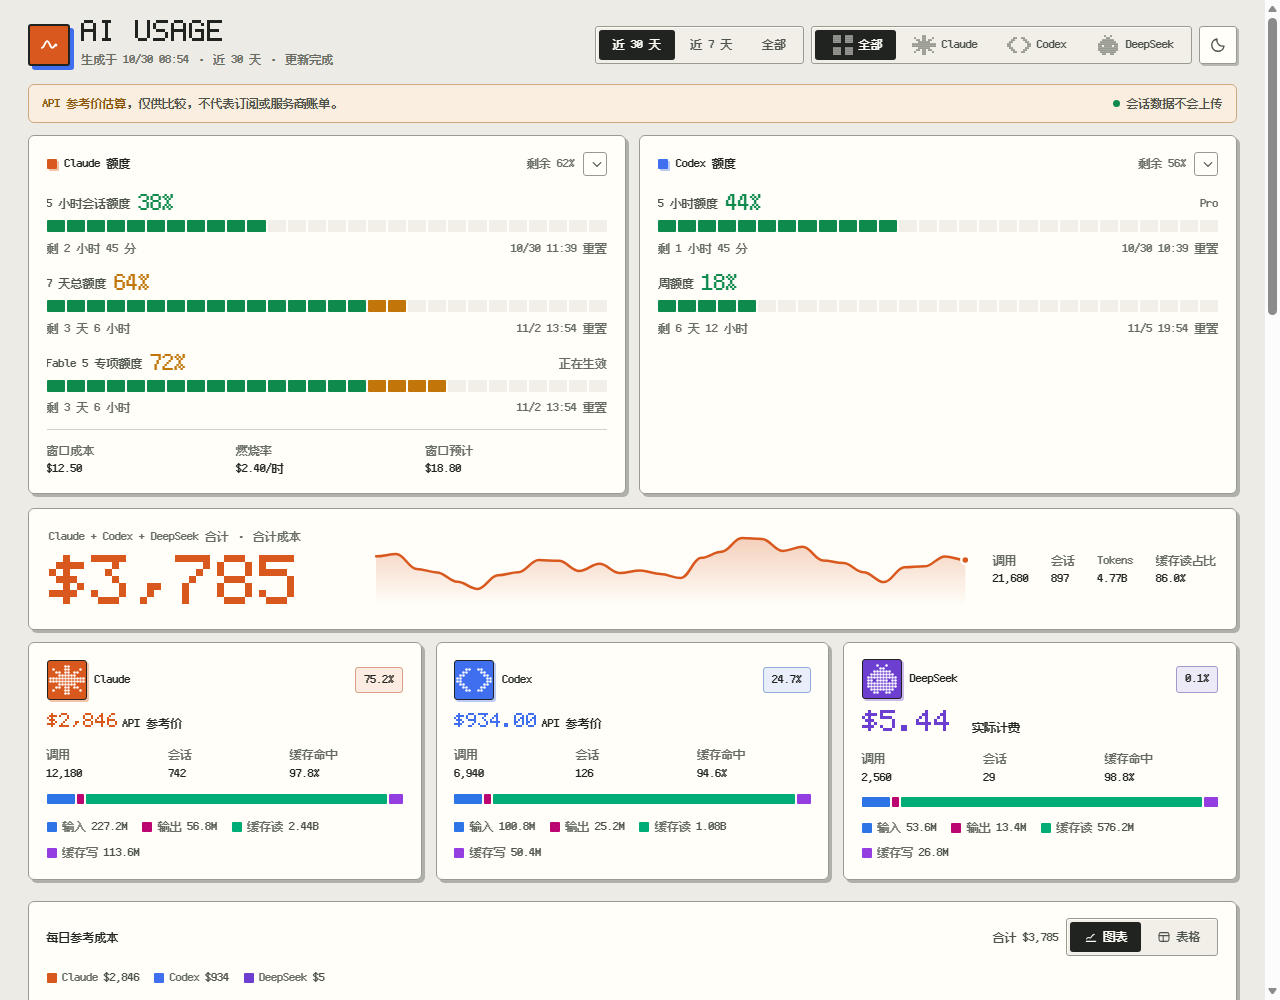
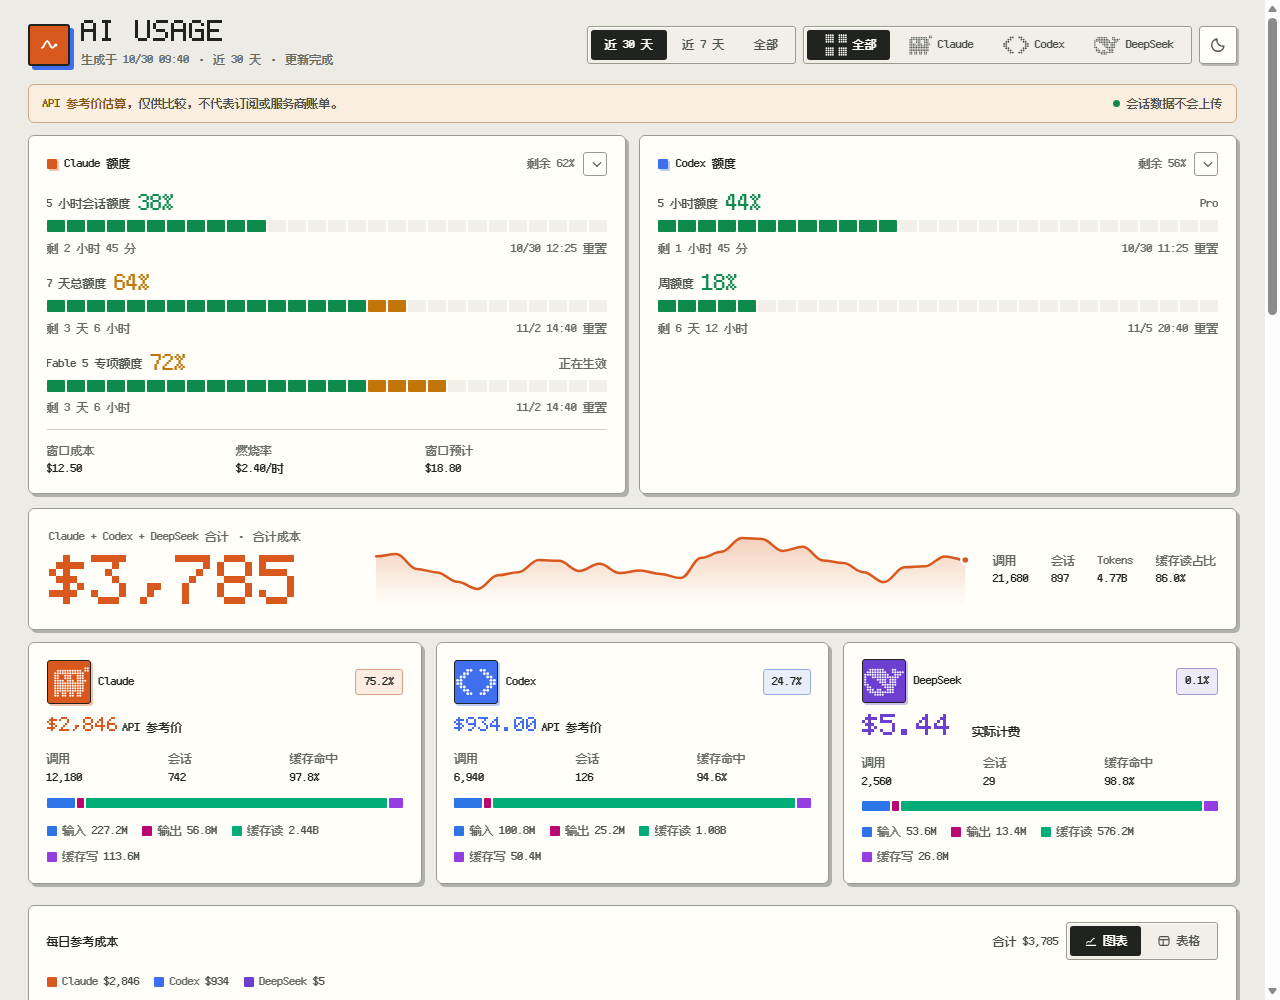
feat: use the real brand marks, redrawn as perler-bead mosaics
DeepSeek now uses the official LobeHub whale path, rasterised to a 16-cell grid by fill coverage and de-speckled, instead of a hand-drawn whale face. Claude swaps the generic burst for the blocky mascot at the same grid. Both render as one circle per bead, so the chip reads as a fuse-bead chart; the chip grows to 44px and the glyph to 40px to keep the bead pitch above 2.7px, and the filter icons follow at 26px. Codex and the all-grid stay at 12 cells.

diff --git a/src/template.html b/src/template.html
@@ -278,8 +278,8 @@
   .prov { padding: 1rem 1.1rem; --p: var(--claude); display: grid; gap: .7rem; }
   .prov-top { display: flex; align-items: center; gap: .5rem; }
   .prov-name { display: inline-flex; align-items: center; gap: .5rem; font-weight: 700; }
-  .prov-name .chip { inline-size: 40px; block-size: 40px; border: 1px solid var(--ink); border-radius: var(--r-item); display: grid; place-items: center; color: #fff; background: var(--p); box-shadow: 2px 2px 0 color-mix(in oklab, var(--p) 35%, transparent); flex: none; }
-  .prov-name .chip svg { inline-size: 36px; block-size: 36px; }
+  .prov-name .chip { inline-size: 44px; block-size: 44px; border: 1px solid var(--ink); border-radius: var(--r-item); display: grid; place-items: center; color: #fff; background: var(--p); box-shadow: 2px 2px 0 color-mix(in oklab, var(--p) 35%, transparent); flex: none; }
+  .prov-name .chip svg { inline-size: 40px; block-size: 40px; }
   .prov-share { margin-inline-start: auto; padding: .15rem .5rem; border: 1px solid color-mix(in oklab, var(--p) 42%, var(--line)); border-radius: var(--r-item); background: color-mix(in oklab, var(--p) 11%, var(--card)); color: var(--ink); font-size: .75rem; font-weight: 600; }
   .prov-cost-row { display: flex; align-items: end; gap: .35rem; flex-wrap: wrap; min-inline-size: 0; }
   .prov-cost { display: inline-block; max-inline-size: 100%; color: var(--p); }
@@ -627,67 +627,124 @@
     <circle cx="10.5" cy="10.5" r="0.42" fill="currentColor"/>
     <circle cx="11.5" cy="10.5" r="0.42" fill="currentColor"/>
   </symbol>
-  <symbol id="i-claude" viewBox="0 0 12 12" fill="currentColor">
-    <circle cx="5.5" cy="1.5" r="0.42" fill="currentColor"/>
-    <circle cx="6.5" cy="1.5" r="0.42" fill="currentColor"/>
-    <circle cx="1.5" cy="2.5" r="0.42" fill="currentColor"/>
-    <circle cx="5.5" cy="2.5" r="0.42" fill="currentColor"/>
-    <circle cx="6.5" cy="2.5" r="0.42" fill="currentColor"/>
-    <circle cx="10.5" cy="2.5" r="0.42" fill="currentColor"/>
-    <circle cx="2.5" cy="3.5" r="0.42" fill="currentColor"/>
+  <symbol id="i-claude" viewBox="0 0 16 16" fill="currentColor">
+    <circle cx="14.5" cy="2.5" r="0.42" fill="currentColor"/>
+    <circle cx="15.5" cy="2.5" r="0.42" fill="currentColor"/>
     <circle cx="3.5" cy="3.5" r="0.42" fill="currentColor"/>
+    <circle cx="4.5" cy="3.5" r="0.42" fill="currentColor"/>
     <circle cx="5.5" cy="3.5" r="0.42" fill="currentColor"/>
     <circle cx="6.5" cy="3.5" r="0.42" fill="currentColor"/>
+    <circle cx="7.5" cy="3.5" r="0.42" fill="currentColor"/>
     <circle cx="8.5" cy="3.5" r="0.42" fill="currentColor"/>
     <circle cx="9.5" cy="3.5" r="0.42" fill="currentColor"/>
+    <circle cx="10.5" cy="3.5" r="0.42" fill="currentColor"/>
+    <circle cx="11.5" cy="3.5" r="0.42" fill="currentColor"/>
+    <circle cx="12.5" cy="3.5" r="0.42" fill="currentColor"/>
+    <circle cx="14.5" cy="3.5" r="0.42" fill="currentColor"/>
+    <circle cx="15.5" cy="3.5" r="0.42" fill="currentColor"/>
+    <circle cx="2.5" cy="4.5" r="0.42" fill="currentColor"/>
     <circle cx="3.5" cy="4.5" r="0.42" fill="currentColor"/>
     <circle cx="4.5" cy="4.5" r="0.42" fill="currentColor"/>
     <circle cx="5.5" cy="4.5" r="0.42" fill="currentColor"/>
     <circle cx="6.5" cy="4.5" r="0.42" fill="currentColor"/>
     <circle cx="7.5" cy="4.5" r="0.42" fill="currentColor"/>
     <circle cx="8.5" cy="4.5" r="0.42" fill="currentColor"/>
-    <circle cx="0.5" cy="5.5" r="0.42" fill="currentColor"/>
-    <circle cx="1.5" cy="5.5" r="0.42" fill="currentColor"/>
+    <circle cx="9.5" cy="4.5" r="0.42" fill="currentColor"/>
+    <circle cx="10.5" cy="4.5" r="0.42" fill="currentColor"/>
+    <circle cx="11.5" cy="4.5" r="0.42" fill="currentColor"/>
+    <circle cx="12.5" cy="4.5" r="0.42" fill="currentColor"/>
+    <circle cx="13.5" cy="4.5" r="0.42" fill="currentColor"/>
     <circle cx="2.5" cy="5.5" r="0.42" fill="currentColor"/>
     <circle cx="3.5" cy="5.5" r="0.42" fill="currentColor"/>
-    <circle cx="4.5" cy="5.5" r="0.42" fill="currentColor"/>
-    <circle cx="5.5" cy="5.5" r="0.42" fill="currentColor"/>
     <circle cx="6.5" cy="5.5" r="0.42" fill="currentColor"/>
     <circle cx="7.5" cy="5.5" r="0.42" fill="currentColor"/>
     <circle cx="8.5" cy="5.5" r="0.42" fill="currentColor"/>
-    <circle cx="9.5" cy="5.5" r="0.42" fill="currentColor"/>
-    <circle cx="10.5" cy="5.5" r="0.42" fill="currentColor"/>
     <circle cx="11.5" cy="5.5" r="0.42" fill="currentColor"/>
-    <circle cx="0.5" cy="6.5" r="0.42" fill="currentColor"/>
-    <circle cx="1.5" cy="6.5" r="0.42" fill="currentColor"/>
+    <circle cx="12.5" cy="5.5" r="0.42" fill="currentColor"/>
+    <circle cx="13.5" cy="5.5" r="0.42" fill="currentColor"/>
     <circle cx="2.5" cy="6.5" r="0.42" fill="currentColor"/>
     <circle cx="3.5" cy="6.5" r="0.42" fill="currentColor"/>
-    <circle cx="4.5" cy="6.5" r="0.42" fill="currentColor"/>
-    <circle cx="5.5" cy="6.5" r="0.42" fill="currentColor"/>
     <circle cx="6.5" cy="6.5" r="0.42" fill="currentColor"/>
     <circle cx="7.5" cy="6.5" r="0.42" fill="currentColor"/>
     <circle cx="8.5" cy="6.5" r="0.42" fill="currentColor"/>
-    <circle cx="9.5" cy="6.5" r="0.42" fill="currentColor"/>
-    <circle cx="10.5" cy="6.5" r="0.42" fill="currentColor"/>
     <circle cx="11.5" cy="6.5" r="0.42" fill="currentColor"/>
+    <circle cx="12.5" cy="6.5" r="0.42" fill="currentColor"/>
+    <circle cx="13.5" cy="6.5" r="0.42" fill="currentColor"/>
+    <circle cx="2.5" cy="7.5" r="0.42" fill="currentColor"/>
     <circle cx="3.5" cy="7.5" r="0.42" fill="currentColor"/>
     <circle cx="4.5" cy="7.5" r="0.42" fill="currentColor"/>
     <circle cx="5.5" cy="7.5" r="0.42" fill="currentColor"/>
-    <circle cx="6.5" cy="7.5" r="0.42" fill="currentColor"/>
     <circle cx="7.5" cy="7.5" r="0.42" fill="currentColor"/>
     <circle cx="8.5" cy="7.5" r="0.42" fill="currentColor"/>
+    <circle cx="9.5" cy="7.5" r="0.42" fill="currentColor"/>
+    <circle cx="11.5" cy="7.5" r="0.42" fill="currentColor"/>
+    <circle cx="12.5" cy="7.5" r="0.42" fill="currentColor"/>
+    <circle cx="13.5" cy="7.5" r="0.42" fill="currentColor"/>
+    <circle cx="14.5" cy="7.5" r="0.42" fill="currentColor"/>
     <circle cx="2.5" cy="8.5" r="0.42" fill="currentColor"/>
     <circle cx="3.5" cy="8.5" r="0.42" fill="currentColor"/>
+    <circle cx="4.5" cy="8.5" r="0.42" fill="currentColor"/>
     <circle cx="5.5" cy="8.5" r="0.42" fill="currentColor"/>
     <circle cx="6.5" cy="8.5" r="0.42" fill="currentColor"/>
+    <circle cx="7.5" cy="8.5" r="0.42" fill="currentColor"/>
     <circle cx="8.5" cy="8.5" r="0.42" fill="currentColor"/>
     <circle cx="9.5" cy="8.5" r="0.42" fill="currentColor"/>
-    <circle cx="1.5" cy="9.5" r="0.42" fill="currentColor"/>
+    <circle cx="10.5" cy="8.5" r="0.42" fill="currentColor"/>
+    <circle cx="11.5" cy="8.5" r="0.42" fill="currentColor"/>
+    <circle cx="12.5" cy="8.5" r="0.42" fill="currentColor"/>
+    <circle cx="13.5" cy="8.5" r="0.42" fill="currentColor"/>
+    <circle cx="2.5" cy="9.5" r="0.42" fill="currentColor"/>
+    <circle cx="3.5" cy="9.5" r="0.42" fill="currentColor"/>
+    <circle cx="4.5" cy="9.5" r="0.42" fill="currentColor"/>
     <circle cx="5.5" cy="9.5" r="0.42" fill="currentColor"/>
     <circle cx="6.5" cy="9.5" r="0.42" fill="currentColor"/>
+    <circle cx="7.5" cy="9.5" r="0.42" fill="currentColor"/>
+    <circle cx="8.5" cy="9.5" r="0.42" fill="currentColor"/>
+    <circle cx="9.5" cy="9.5" r="0.42" fill="currentColor"/>
     <circle cx="10.5" cy="9.5" r="0.42" fill="currentColor"/>
+    <circle cx="11.5" cy="9.5" r="0.42" fill="currentColor"/>
+    <circle cx="12.5" cy="9.5" r="0.42" fill="currentColor"/>
+    <circle cx="13.5" cy="9.5" r="0.42" fill="currentColor"/>
+    <circle cx="2.5" cy="10.5" r="0.42" fill="currentColor"/>
+    <circle cx="3.5" cy="10.5" r="0.42" fill="currentColor"/>
+    <circle cx="4.5" cy="10.5" r="0.42" fill="currentColor"/>
     <circle cx="5.5" cy="10.5" r="0.42" fill="currentColor"/>
     <circle cx="6.5" cy="10.5" r="0.42" fill="currentColor"/>
+    <circle cx="7.5" cy="10.5" r="0.42" fill="currentColor"/>
+    <circle cx="8.5" cy="10.5" r="0.42" fill="currentColor"/>
+    <circle cx="9.5" cy="10.5" r="0.42" fill="currentColor"/>
+    <circle cx="10.5" cy="10.5" r="0.42" fill="currentColor"/>
+    <circle cx="11.5" cy="10.5" r="0.42" fill="currentColor"/>
+    <circle cx="12.5" cy="10.5" r="0.42" fill="currentColor"/>
+    <circle cx="13.5" cy="10.5" r="0.42" fill="currentColor"/>
+    <circle cx="2.5" cy="11.5" r="0.42" fill="currentColor"/>
+    <circle cx="3.5" cy="11.5" r="0.42" fill="currentColor"/>
+    <circle cx="4.5" cy="11.5" r="0.42" fill="currentColor"/>
+    <circle cx="5.5" cy="11.5" r="0.42" fill="currentColor"/>
+    <circle cx="6.5" cy="11.5" r="0.42" fill="currentColor"/>
+    <circle cx="7.5" cy="11.5" r="0.42" fill="currentColor"/>
+    <circle cx="8.5" cy="11.5" r="0.42" fill="currentColor"/>
+    <circle cx="9.5" cy="11.5" r="0.42" fill="currentColor"/>
+    <circle cx="10.5" cy="11.5" r="0.42" fill="currentColor"/>
+    <circle cx="11.5" cy="11.5" r="0.42" fill="currentColor"/>
+    <circle cx="12.5" cy="11.5" r="0.42" fill="currentColor"/>
+    <circle cx="13.5" cy="11.5" r="0.42" fill="currentColor"/>
+    <circle cx="2.5" cy="12.5" r="0.42" fill="currentColor"/>
+    <circle cx="3.5" cy="12.5" r="0.42" fill="currentColor"/>
+    <circle cx="5.5" cy="12.5" r="0.42" fill="currentColor"/>
+    <circle cx="6.5" cy="12.5" r="0.42" fill="currentColor"/>
+    <circle cx="8.5" cy="12.5" r="0.42" fill="currentColor"/>
+    <circle cx="9.5" cy="12.5" r="0.42" fill="currentColor"/>
+    <circle cx="11.5" cy="12.5" r="0.42" fill="currentColor"/>
+    <circle cx="12.5" cy="12.5" r="0.42" fill="currentColor"/>
+    <circle cx="2.5" cy="13.5" r="0.42" fill="currentColor"/>
+    <circle cx="3.5" cy="13.5" r="0.42" fill="currentColor"/>
+    <circle cx="5.5" cy="13.5" r="0.42" fill="currentColor"/>
+    <circle cx="6.5" cy="13.5" r="0.42" fill="currentColor"/>
+    <circle cx="8.5" cy="13.5" r="0.42" fill="currentColor"/>
+    <circle cx="9.5" cy="13.5" r="0.42" fill="currentColor"/>
+    <circle cx="11.5" cy="13.5" r="0.42" fill="currentColor"/>
+    <circle cx="12.5" cy="13.5" r="0.42" fill="currentColor"/>
   </symbol>
   <symbol id="i-codex" viewBox="0 0 12 12" fill="currentColor">
     <circle cx="3.5" cy="2.5" r="0.42" fill="currentColor"/>
@@ -723,17 +780,16 @@
     <circle cx="7.5" cy="9.5" r="0.42" fill="currentColor"/>
     <circle cx="8.5" cy="9.5" r="0.42" fill="currentColor"/>
   </symbol>
-  <symbol id="i-deepseek" viewBox="0 0 12 12" fill="currentColor">
-    <circle cx="4.5" cy="1.5" r="0.42" fill="currentColor"/>
-    <circle cx="7.5" cy="1.5" r="0.42" fill="currentColor"/>
-    <circle cx="5.5" cy="2.5" r="0.42" fill="currentColor"/>
-    <circle cx="6.5" cy="2.5" r="0.42" fill="currentColor"/>
+  <symbol id="i-deepseek" viewBox="0 0 16 16" fill="currentColor">
+    <circle cx="2.5" cy="3.5" r="0.42" fill="currentColor"/>
     <circle cx="3.5" cy="3.5" r="0.42" fill="currentColor"/>
     <circle cx="4.5" cy="3.5" r="0.42" fill="currentColor"/>
     <circle cx="5.5" cy="3.5" r="0.42" fill="currentColor"/>
     <circle cx="6.5" cy="3.5" r="0.42" fill="currentColor"/>
     <circle cx="7.5" cy="3.5" r="0.42" fill="currentColor"/>
-    <circle cx="8.5" cy="3.5" r="0.42" fill="currentColor"/>
+    <circle cx="11.5" cy="3.5" r="0.42" fill="currentColor"/>
+    <circle cx="12.5" cy="3.5" r="0.42" fill="currentColor"/>
+    <circle cx="1.5" cy="4.5" r="0.42" fill="currentColor"/>
     <circle cx="2.5" cy="4.5" r="0.42" fill="currentColor"/>
     <circle cx="3.5" cy="4.5" r="0.42" fill="currentColor"/>
     <circle cx="4.5" cy="4.5" r="0.42" fill="currentColor"/>
@@ -741,7 +797,12 @@
     <circle cx="6.5" cy="4.5" r="0.42" fill="currentColor"/>
     <circle cx="7.5" cy="4.5" r="0.42" fill="currentColor"/>
     <circle cx="8.5" cy="4.5" r="0.42" fill="currentColor"/>
-    <circle cx="9.5" cy="4.5" r="0.42" fill="currentColor"/>
+    <circle cx="11.5" cy="4.5" r="0.42" fill="currentColor"/>
+    <circle cx="12.5" cy="4.5" r="0.42" fill="currentColor"/>
+    <circle cx="13.5" cy="4.5" r="0.42" fill="currentColor"/>
+    <circle cx="14.5" cy="4.5" r="0.42" fill="currentColor"/>
+    <circle cx="15.5" cy="4.5" r="0.42" fill="currentColor"/>
+    <circle cx="0.5" cy="5.5" r="0.42" fill="currentColor"/>
     <circle cx="1.5" cy="5.5" r="0.42" fill="currentColor"/>
     <circle cx="2.5" cy="5.5" r="0.42" fill="currentColor"/>
     <circle cx="3.5" cy="5.5" r="0.42" fill="currentColor"/>
@@ -751,47 +812,72 @@
     <circle cx="7.5" cy="5.5" r="0.42" fill="currentColor"/>
     <circle cx="8.5" cy="5.5" r="0.42" fill="currentColor"/>
     <circle cx="9.5" cy="5.5" r="0.42" fill="currentColor"/>
-    <circle cx="10.5" cy="5.5" r="0.42" fill="currentColor"/>
-    <circle cx="1.5" cy="6.5" r="0.42" fill="currentColor"/>
-    <circle cx="2.5" cy="6.5" r="0.42" fill="currentColor"/>
+    <circle cx="12.5" cy="5.5" r="0.42" fill="currentColor"/>
+    <circle cx="13.5" cy="5.5" r="0.42" fill="currentColor"/>
+    <circle cx="14.5" cy="5.5" r="0.42" fill="currentColor"/>
+    <circle cx="0.5" cy="6.5" r="0.42" fill="currentColor"/>
+    <circle cx="3.5" cy="6.5" r="0.42" fill="currentColor"/>
     <circle cx="4.5" cy="6.5" r="0.42" fill="currentColor"/>
     <circle cx="5.5" cy="6.5" r="0.42" fill="currentColor"/>
     <circle cx="6.5" cy="6.5" r="0.42" fill="currentColor"/>
     <circle cx="7.5" cy="6.5" r="0.42" fill="currentColor"/>
+    <circle cx="8.5" cy="6.5" r="0.42" fill="currentColor"/>
     <circle cx="9.5" cy="6.5" r="0.42" fill="currentColor"/>
     <circle cx="10.5" cy="6.5" r="0.42" fill="currentColor"/>
-    <circle cx="1.5" cy="7.5" r="0.42" fill="currentColor"/>
-    <circle cx="2.5" cy="7.5" r="0.42" fill="currentColor"/>
-    <circle cx="3.5" cy="7.5" r="0.42" fill="currentColor"/>
-    <circle cx="4.5" cy="7.5" r="0.42" fill="currentColor"/>
+    <circle cx="11.5" cy="6.5" r="0.42" fill="currentColor"/>
+    <circle cx="12.5" cy="6.5" r="0.42" fill="currentColor"/>
+    <circle cx="13.5" cy="6.5" r="0.42" fill="currentColor"/>
+    <circle cx="0.5" cy="7.5" r="0.42" fill="currentColor"/>
     <circle cx="5.5" cy="7.5" r="0.42" fill="currentColor"/>
     <circle cx="6.5" cy="7.5" r="0.42" fill="currentColor"/>
     <circle cx="7.5" cy="7.5" r="0.42" fill="currentColor"/>
     <circle cx="8.5" cy="7.5" r="0.42" fill="currentColor"/>
-    <circle cx="9.5" cy="7.5" r="0.42" fill="currentColor"/>
     <circle cx="10.5" cy="7.5" r="0.42" fill="currentColor"/>
-    <circle cx="1.5" cy="8.5" r="0.42" fill="currentColor"/>
-    <circle cx="2.5" cy="8.5" r="0.42" fill="currentColor"/>
-    <circle cx="3.5" cy="8.5" r="0.42" fill="currentColor"/>
-    <circle cx="4.5" cy="8.5" r="0.42" fill="currentColor"/>
-    <circle cx="5.5" cy="8.5" r="0.42" fill="currentColor"/>
+    <circle cx="11.5" cy="7.5" r="0.42" fill="currentColor"/>
+    <circle cx="12.5" cy="7.5" r="0.42" fill="currentColor"/>
+    <circle cx="0.5" cy="8.5" r="0.42" fill="currentColor"/>
     <circle cx="6.5" cy="8.5" r="0.42" fill="currentColor"/>
     <circle cx="7.5" cy="8.5" r="0.42" fill="currentColor"/>
     <circle cx="8.5" cy="8.5" r="0.42" fill="currentColor"/>
-    <circle cx="9.5" cy="8.5" r="0.42" fill="currentColor"/>
     <circle cx="10.5" cy="8.5" r="0.42" fill="currentColor"/>
-    <circle cx="2.5" cy="9.5" r="0.42" fill="currentColor"/>
-    <circle cx="3.5" cy="9.5" r="0.42" fill="currentColor"/>
-    <circle cx="4.5" cy="9.5" r="0.42" fill="currentColor"/>
-    <circle cx="5.5" cy="9.5" r="0.42" fill="currentColor"/>
-    <circle cx="6.5" cy="9.5" r="0.42" fill="currentColor"/>
+    <circle cx="11.5" cy="8.5" r="0.42" fill="currentColor"/>
+    <circle cx="12.5" cy="8.5" r="0.42" fill="currentColor"/>
+    <circle cx="0.5" cy="9.5" r="0.42" fill="currentColor"/>
+    <circle cx="1.5" cy="9.5" r="0.42" fill="currentColor"/>
     <circle cx="7.5" cy="9.5" r="0.42" fill="currentColor"/>
     <circle cx="8.5" cy="9.5" r="0.42" fill="currentColor"/>
     <circle cx="9.5" cy="9.5" r="0.42" fill="currentColor"/>
-    <circle cx="3.5" cy="10.5" r="0.42" fill="currentColor"/>
-    <circle cx="4.5" cy="10.5" r="0.42" fill="currentColor"/>
-    <circle cx="7.5" cy="10.5" r="0.42" fill="currentColor"/>
+    <circle cx="10.5" cy="9.5" r="0.42" fill="currentColor"/>
+    <circle cx="11.5" cy="9.5" r="0.42" fill="currentColor"/>
+    <circle cx="12.5" cy="9.5" r="0.42" fill="currentColor"/>
+    <circle cx="1.5" cy="10.5" r="0.42" fill="currentColor"/>
+    <circle cx="2.5" cy="10.5" r="0.42" fill="currentColor"/>
     <circle cx="8.5" cy="10.5" r="0.42" fill="currentColor"/>
+    <circle cx="9.5" cy="10.5" r="0.42" fill="currentColor"/>
+    <circle cx="10.5" cy="10.5" r="0.42" fill="currentColor"/>
+    <circle cx="11.5" cy="10.5" r="0.42" fill="currentColor"/>
+    <circle cx="1.5" cy="11.5" r="0.42" fill="currentColor"/>
+    <circle cx="2.5" cy="11.5" r="0.42" fill="currentColor"/>
+    <circle cx="3.5" cy="11.5" r="0.42" fill="currentColor"/>
+    <circle cx="5.5" cy="11.5" r="0.42" fill="currentColor"/>
+    <circle cx="6.5" cy="11.5" r="0.42" fill="currentColor"/>
+    <circle cx="9.5" cy="11.5" r="0.42" fill="currentColor"/>
+    <circle cx="10.5" cy="11.5" r="0.42" fill="currentColor"/>
+    <circle cx="11.5" cy="11.5" r="0.42" fill="currentColor"/>
+    <circle cx="2.5" cy="12.5" r="0.42" fill="currentColor"/>
+    <circle cx="3.5" cy="12.5" r="0.42" fill="currentColor"/>
+    <circle cx="4.5" cy="12.5" r="0.42" fill="currentColor"/>
+    <circle cx="5.5" cy="12.5" r="0.42" fill="currentColor"/>
+    <circle cx="6.5" cy="12.5" r="0.42" fill="currentColor"/>
+    <circle cx="7.5" cy="12.5" r="0.42" fill="currentColor"/>
+    <circle cx="8.5" cy="12.5" r="0.42" fill="currentColor"/>
+    <circle cx="9.5" cy="12.5" r="0.42" fill="currentColor"/>
+    <circle cx="10.5" cy="12.5" r="0.42" fill="currentColor"/>
+    <circle cx="11.5" cy="12.5" r="0.42" fill="currentColor"/>
+    <circle cx="4.5" cy="13.5" r="0.42" fill="currentColor"/>
+    <circle cx="5.5" cy="13.5" r="0.42" fill="currentColor"/>
+    <circle cx="6.5" cy="13.5" r="0.42" fill="currentColor"/>
+    <circle cx="7.5" cy="13.5" r="0.42" fill="currentColor"/>
   </symbol>
   <symbol id="i-theme" viewBox="0 0 24 24" fill="none" stroke="currentColor" stroke-width="1.8" stroke-linecap="round" stroke-linejoin="round">
     <path d="M20 13.4A8 8 0 0 1 10.6 4a8.2 8.2 0 1 0 9.4 9.4Z"/>
@@ -830,10 +916,10 @@
     <div class="topbar-actions">
       <div class="seg" id="periodSeg" role="group" aria-label="统计周期"></div>
       <div class="seg" role="group" aria-label="提供商筛选">
-        <button type="button" data-filter="all" aria-pressed="true"><svg width="24" height="24" aria-hidden="true"><use href="#i-all"/></svg>全部</button>
-        <button type="button" data-filter="claude" aria-pressed="false"><svg width="24" height="24" aria-hidden="true"><use href="#i-claude"/></svg><span translate="no">Claude</span></button>
-        <button type="button" data-filter="codex" aria-pressed="false"><svg width="24" height="24" aria-hidden="true"><use href="#i-codex"/></svg><span translate="no">Codex</span></button>
-        <button type="button" data-filter="deepseek" aria-pressed="false" hidden><svg width="24" height="24" aria-hidden="true"><use href="#i-deepseek"/></svg><span translate="no">DeepSeek</span></button>
+        <button type="button" data-filter="all" aria-pressed="true"><svg width="26" height="26" aria-hidden="true"><use href="#i-all"/></svg>全部</button>
+        <button type="button" data-filter="claude" aria-pressed="false"><svg width="26" height="26" aria-hidden="true"><use href="#i-claude"/></svg><span translate="no">Claude</span></button>
+        <button type="button" data-filter="codex" aria-pressed="false"><svg width="26" height="26" aria-hidden="true"><use href="#i-codex"/></svg><span translate="no">Codex</span></button>
+        <button type="button" data-filter="deepseek" aria-pressed="false" hidden><svg width="26" height="26" aria-hidden="true"><use href="#i-deepseek"/></svg><span translate="no">DeepSeek</span></button>
       </div>
       <button type="button" class="iconbtn" id="themeBtn" aria-pressed="false" aria-label="深色主题">
         <svg width="18" height="18" aria-hidden="true"><use href="#i-theme"/></svg><span class="sr-only">深色主题</span>

diff --git a/CLAUDE.md b/CLAUDE.md
@@ -303,11 +303,12 @@ This personal Windows utility creates a local, disposable Claude Code and OpenAI
   `prefers-reduced-motion` and must not be required to read any value.
 - Validate any new categorical or sequential palette with the dataviz validator rather
   than eyeballing it.
-- Provider marks are 12x12 pixel glyphs (`shape-rendering="crispEdges"`, `fill="currentColor"`):
-  a burst for Claude, terminal angle brackets for Codex, a whale face for DeepSeek, plus a
-  pixel grid for "all". Render them at 20px in the filter row and 24px in a card chip so the
-  cells stay on whole pixels; the other icons stay line art because they are affordances,
-  not brands.
+- Provider marks are perler-bead mosaics: one `<circle r=".42">` per filled cell, no
+  `shape-rendering`, `fill="currentColor"`. DeepSeek's whale is the official LobeHub path
+  downsampled to a 16-cell grid, Claude is the blocky mascot at 16 cells, and Codex plus
+  "all" stay at 12. A 44px chip with a 40px glyph keeps the bead pitch near 2.75px, the
+  smallest size where beads still read as beads; at 26px in the filter row they degrade to
+  a dotted silhouette, which is the accepted trade for brand fidelity.
 - Motion uses one token set taken from IBM Carbon's productive motion: standard
   `cubic-bezier(.2,0,.38,.9)`, entrance `cubic-bezier(0,0,.38,.9)`, and 110/150/240 ms
   for fades, small movement and expansion. Micro-interactions stay in Carbon's 90-120 ms
